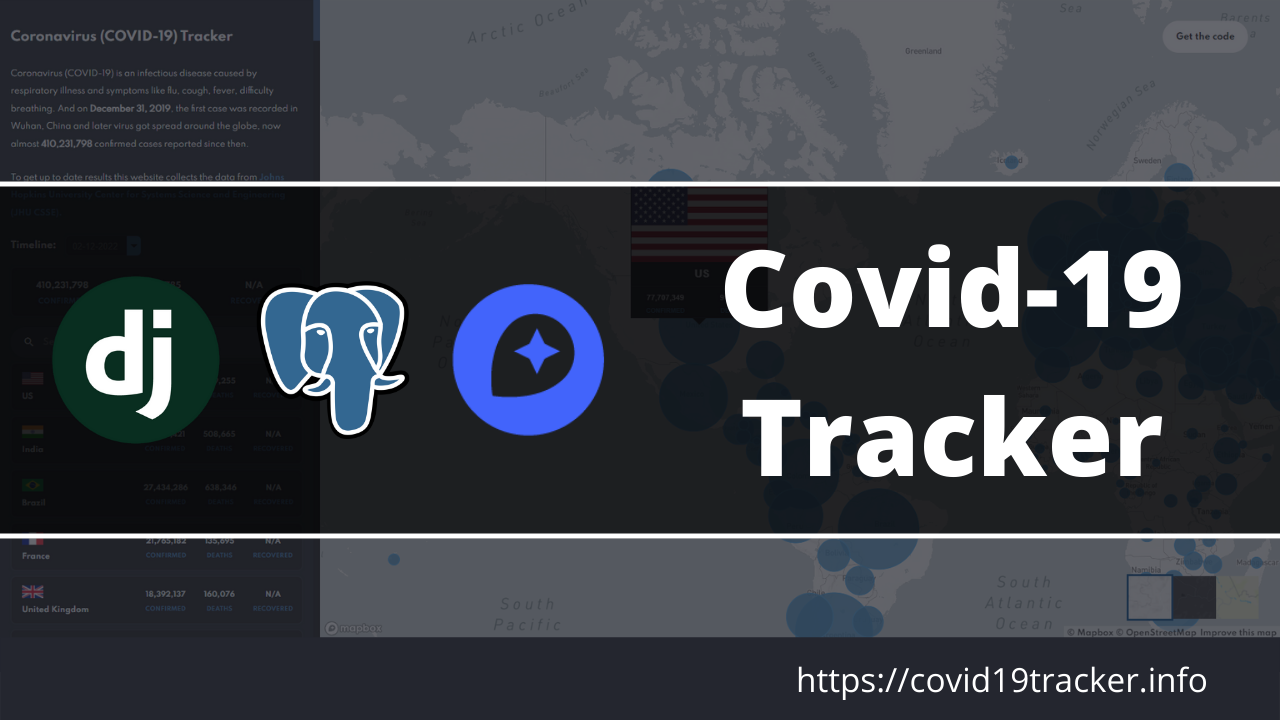
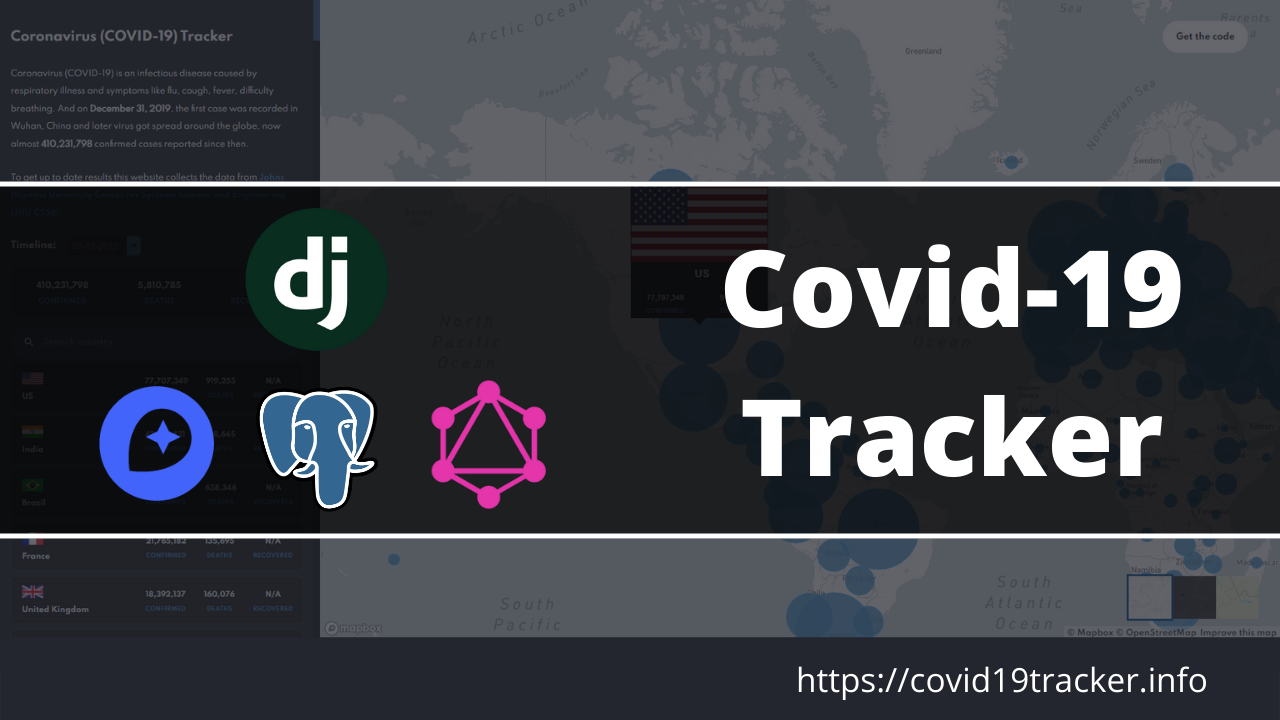
README Updated

Changed region(s): [[0.0312, 0.275, 0.4688, 0.7333]]

diff --git a/README.md b/README.md
@@ -13,7 +13,7 @@ https://covid19tracker.info
 
 ## Technical Overview
 
-TechStack behind covid19tracker website is (Django, Postgresql & Mapbox) and to collect daily results around the world admin panel crawls & 
+TechStack behind covid19tracker website is (Django, Postgresql, GraphQL & Mapbox) and to collect daily results around the world admin panel crawls & 
 parses (JHU CSSE) GitHub page using [beautifulsoup4](https://pypi.org/project/beautifulsoup4/) and parses the CSV file using 
 [PapaParse](https://www.papaparse.com/) javascript API and converts it to JSON data format and stores the results into the db using ORM data models. 
 To populate the statistics of each country around the world over the map it uses [Mapbox](https://www.mapbox.com/) Javascript API and follows geoJSON data 
@@ -85,6 +85,56 @@ Setup completed successfully!
 Open http://127.0.0.1:8000 on your browser
 
 ``````````````````````````````````````````````````````````````````
+
+### GraphQL
+
+To get the statistics faster, I have implemented GraphQL using [graphene](https://pypi.org/project/graphene/) python module, so we can query different datasets `i.e. Country, TotalCases & CovidStatistics` and get all the results at once in just few seconds.
+
+``````````````````````````````````````````````````
+Open http://127.0.0.1:8000/graphql on your browser 
+``````````````````````````````````````````````````
+
+### Query
+
+This is a sample query to get the covid statistics of the `02-14-2022` date and using this query, it will populate two different sets of data.
+
+1. Total Cases around the world - (totalCases)
+2. Statistics of all countries - (countryStatistics)
+
+````````````````````````````````````````````````````
+query {
+  totalCases(date: "02-14-2022") {
+    edges {
+      node {
+        totalConfirmed
+        totalDeaths
+        totalRecovered
+        date
+      }
+    }
+  }
+  countryStatistics {
+    name
+    code
+    flag
+    coordinates
+    statistics(date: "02-14-2022") {
+      edges {
+        node {
+          area
+          confirmed
+          deaths
+          recovered
+          date
+        }
+      }
+    }
+  }
+}
+````````````````````````````````````````````````````
+### Output
+
+<img src="screenshot/graphql.png" alt="GraphQL Result">
 
 ### Note
 The website is still under development, if you've any new ideas or suggestions feel free to reach out to me on 
